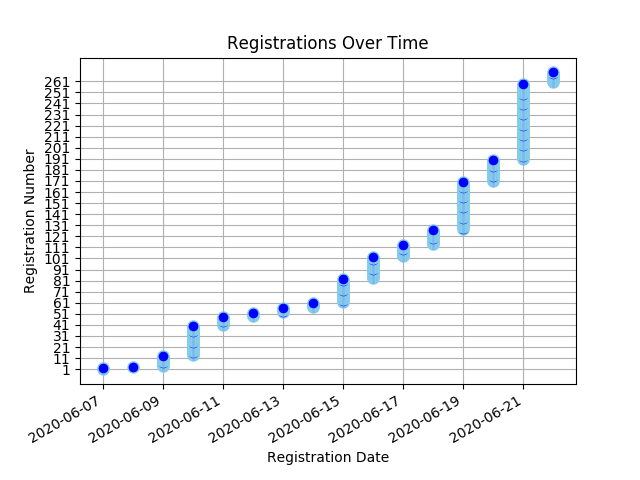
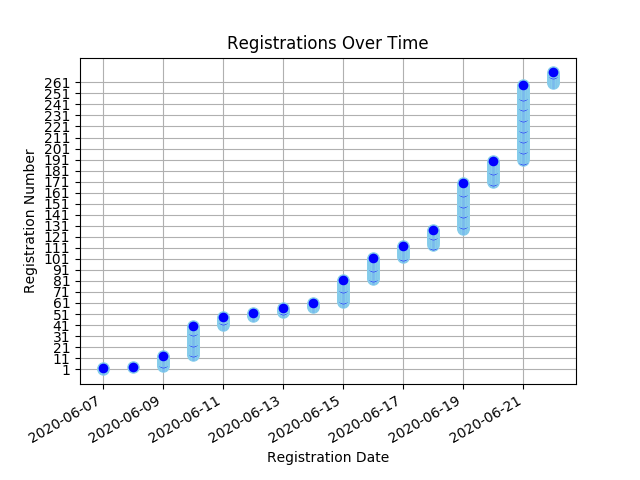
Registree stats backup on Mon Jun 22 13:54:19 SAST 2020

Changed region(s): [[0.0625, 0.1562, 0.9062, 0.5938], [0.0625, 0.6562, 0.125, 0.7188], [0.2812, 0.7188, 0.3125, 0.75]]

diff --git a/content/virtual_conf_stats/_index.md b/content/virtual_conf_stats/_index.md
@@ -16,7 +16,7 @@ draft: false
 </head>
 <body>
 <h1 style="color: #000000;">Virtual Convention Registration Stats</h1>
-<ul><li><strong>Number of Registrees</strong>: 269</li>
+<ul><li><strong>Number of Registrees</strong>: 270</li>
 </ul><a href="/docs/virtual_convention_stats.csv">Download registration details here</a>
 <h2>Registrees</h2>
 <table id="registreeTable" class="tablesorter" border="1" padding=1>
@@ -100,6 +100,7 @@ Club
 <tr><td>Grater, Viv</td><td>Newlands</td></tr>
 <tr><td>Gray, Brian</td><td>Durbanville</td></tr>
 <tr><td>Griffith, David</td><td>The Wilds</td></tr>
+<tr><td>Groves, Mattheus Edward</td><td>Sedgefield</td></tr>
 <tr><td>Harris, Washiela</td><td>Mitchell's Plain Lions Club</td></tr>
 <tr><td>Haywood, Barbara</td><td>Eden 410W</td></tr>
 <tr><td>Hendricks, Naathirah</td><td>Athlone Lions Club</td></tr>
